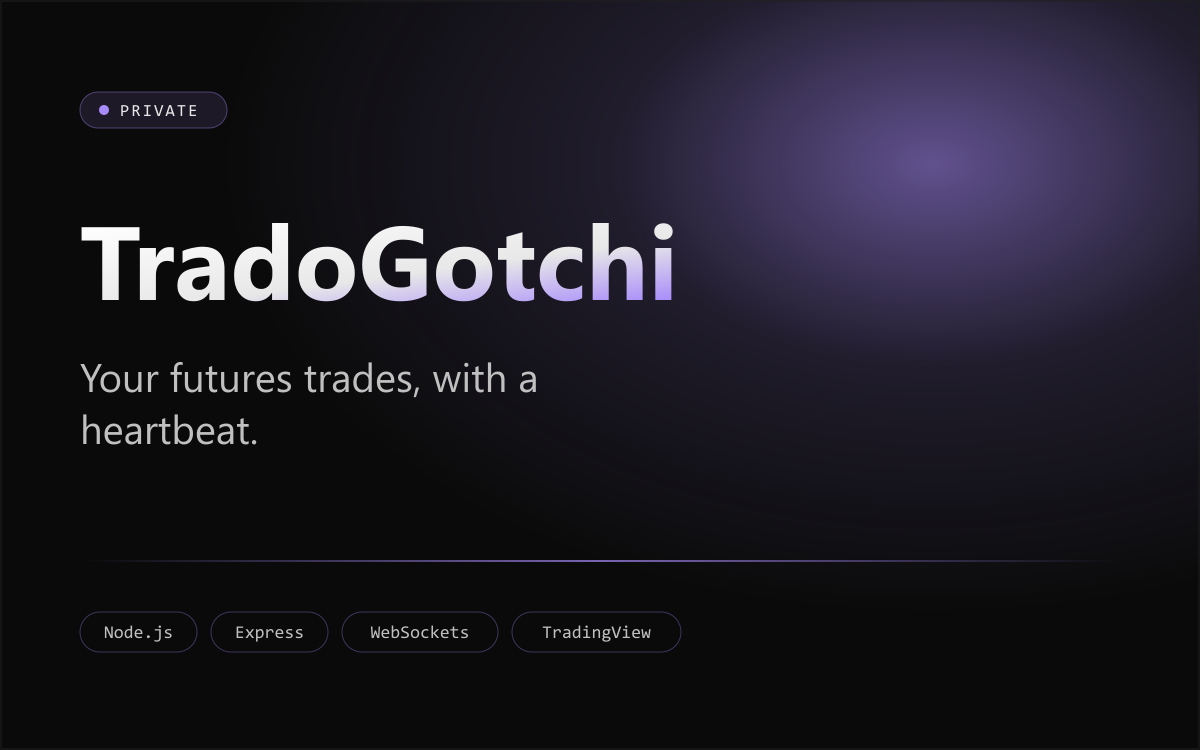
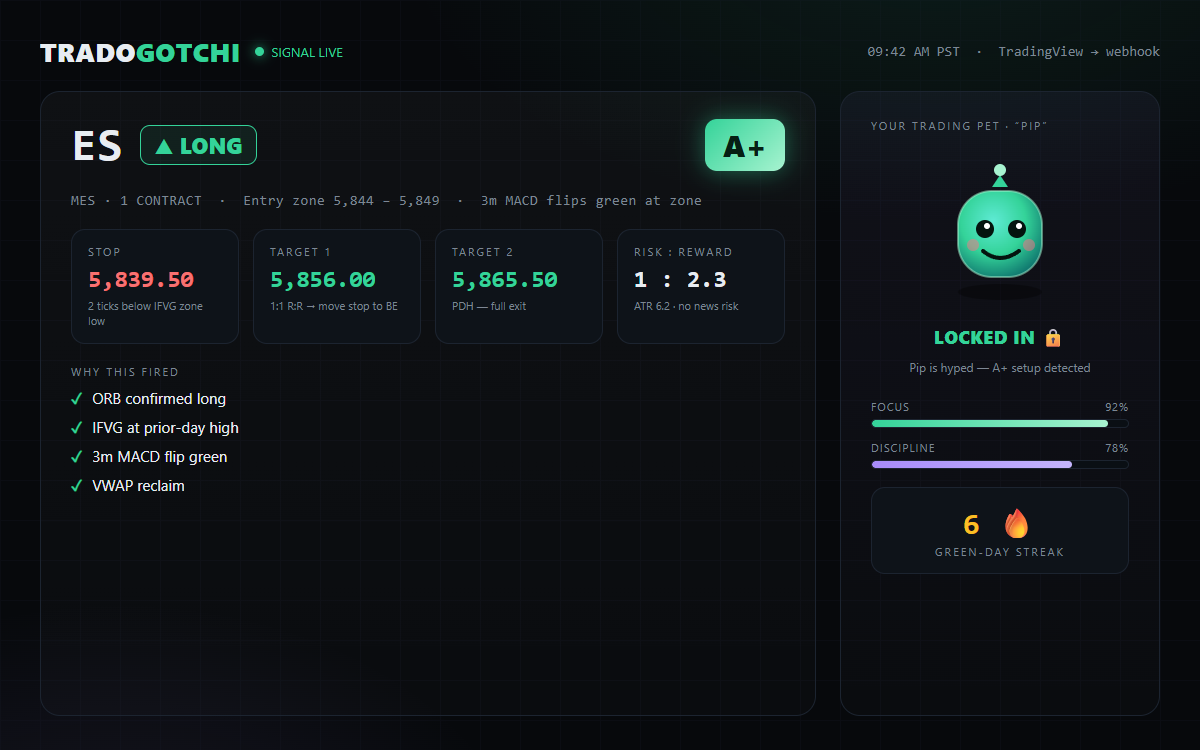
feat: faithful TradoGotchi alert-card visual from server data

diff --git a/scripts/tradogotchi-mock.html b/scripts/tradogotchi-mock.html
@@ -1,0 +1,173 @@
+<!doctype html>
+<html lang="en">
+<head>
+<meta charset="utf-8" />
+<style>
+  * { margin: 0; padding: 0; box-sizing: border-box; }
+  :root {
+    --bg: #07090c; --panel: #0e1319; --line: #1c2430;
+    --green: #34d399; --green-dim: #0f3a2e; --red: #f87171;
+    --purple: #a78bfa; --text: #e8edf2; --dim: #7d8794; --gold: #fbbf24;
+  }
+  html,body { width:1200px; height:750px; background:var(--bg); color:var(--text);
+    font-family: "Segoe UI", Inter, system-ui, sans-serif; overflow:hidden; }
+  .mono { font-family: "Consolas","SF Mono",ui-monospace,monospace; }
+  .app { width:1200px; height:750px; position:relative;
+    background:
+      radial-gradient(900px 500px at 78% -10%, rgba(52,211,153,.10), transparent 60%),
+      radial-gradient(700px 500px at 10% 120%, rgba(167,139,250,.10), transparent 60%),
+      var(--bg);
+    padding:34px 40px; display:flex; flex-direction:column; gap:22px; }
+  /* subtle grid */
+  .app::before { content:""; position:absolute; inset:0;
+    background-image:linear-gradient(var(--line) 1px,transparent 1px),linear-gradient(90deg,var(--line) 1px,transparent 1px);
+    background-size:40px 40px; opacity:.18; pointer-events:none; }
+
+  .top { display:flex; align-items:center; justify-content:space-between; position:relative; z-index:1; }
+  .brand { display:flex; align-items:center; gap:14px; }
+  .logo { font-size:26px; font-weight:800; letter-spacing:.5px; }
+  .logo b { color:var(--green); }
+  .live { display:flex; align-items:center; gap:8px; font-size:13px; color:var(--green); }
+  .dot { width:9px; height:9px; border-radius:50%; background:var(--green); box-shadow:0 0 12px var(--green); }
+  .clock { font-size:14px; color:var(--dim); }
+
+  .body { display:grid; grid-template-columns: 1fr 320px; gap:24px; position:relative; z-index:1; flex:1; }
+
+  .card { background:linear-gradient(180deg,rgba(255,255,255,.03),rgba(255,255,255,.01));
+    border:1px solid var(--line); border-radius:20px; padding:26px 30px; }
+
+  .alert { display:flex; flex-direction:column; gap:20px; }
+  .alert-head { display:flex; align-items:center; gap:16px; }
+  .pair { font-size:46px; font-weight:800; letter-spacing:1px; }
+  .dir { display:inline-flex; align-items:center; gap:8px; font-size:22px; font-weight:800;
+    color:var(--green); padding:4px 14px; border:1px solid var(--green); border-radius:10px;
+    background:rgba(52,211,153,.08); }
+  .grade { margin-left:auto; font-size:30px; font-weight:900; color:#062014;
+    background:linear-gradient(135deg,var(--green),#a7f3d0); padding:6px 18px; border-radius:12px;
+    box-shadow:0 0 24px rgba(52,211,153,.45); }
+  .sub { font-size:14px; color:var(--dim); letter-spacing:.5px; }
+
+  .levels { display:grid; grid-template-columns:repeat(4,1fr); gap:14px; }
+  .lvl { background:var(--panel); border:1px solid var(--line); border-radius:14px; padding:14px 16px; }
+  .lvl .lab { font-size:11px; letter-spacing:2px; color:var(--dim); text-transform:uppercase; }
+  .lvl .val { font-size:24px; font-weight:700; margin-top:6px; }
+  .lvl .note { font-size:11px; color:var(--dim); margin-top:6px; line-height:1.35; }
+  .lvl.stop .val { color:var(--red); }
+  .lvl.t1 .val, .lvl.t2 .val { color:var(--green); }
+
+  .why { display:flex; flex-direction:column; gap:9px; }
+  .why .wlab { font-size:11px; letter-spacing:2px; color:var(--dim); text-transform:uppercase; }
+  .chk { display:flex; align-items:center; gap:10px; font-size:15px; }
+  .chk span { color:var(--green); font-weight:800; }
+  .meta { display:flex; gap:10px; margin-top:4px; }
+  .chip { font-size:12px; color:var(--text); border:1px solid var(--line); border-radius:999px; padding:5px 12px; }
+  .chip b { color:var(--green); }
+
+  /* PET panel */
+  .pet { display:flex; flex-direction:column; gap:18px; align-items:center; justify-content:flex-start;
+    background:linear-gradient(180deg,rgba(167,139,250,.06),rgba(255,255,255,.01)); }
+  .pet .pname { align-self:flex-start; font-size:11px; letter-spacing:2px; color:var(--dim); text-transform:uppercase; }
+  .creature { margin-top:6px; }
+  .mood { font-size:18px; font-weight:800; color:var(--green); letter-spacing:.5px; }
+  .moodsub { font-size:12px; color:var(--dim); margin-top:-8px; }
+  .bars { width:100%; display:flex; flex-direction:column; gap:12px; margin-top:6px; }
+  .bar .bl { display:flex; justify-content:space-between; font-size:11px; color:var(--dim); letter-spacing:1px; margin-bottom:5px; }
+  .track { height:9px; background:#0a0f14; border:1px solid var(--line); border-radius:999px; overflow:hidden; }
+  .fill { height:100%; border-radius:999px; }
+  .streak { width:100%; background:var(--panel); border:1px solid var(--line); border-radius:14px; padding:14px;
+    text-align:center; }
+  .streak .big { font-size:30px; font-weight:800; color:var(--gold); }
+  .streak .sl { font-size:11px; letter-spacing:2px; color:var(--dim); text-transform:uppercase; margin-top:2px; }
+</style>
+</head>
+<body>
+  <div class="app">
+    <div class="top">
+      <div class="brand">
+        <div class="logo">TRADO<b>GOTCHI</b></div>
+        <div class="live"><span class="dot"></span> SIGNAL LIVE</div>
+      </div>
+      <div class="clock mono">09:42 AM PST &nbsp;·&nbsp; TradingView → webhook</div>
+    </div>
+
+    <div class="body">
+      <!-- ALERT -->
+      <div class="card alert">
+        <div class="alert-head">
+          <div class="pair mono">ES</div>
+          <div class="dir">▲ LONG</div>
+          <div class="grade">A+</div>
+        </div>
+        <div class="sub mono">MES · 1 CONTRACT &nbsp;·&nbsp; Entry zone 5,844 – 5,849 &nbsp;·&nbsp; 3m MACD flips green at zone</div>
+
+        <div class="levels">
+          <div class="lvl stop">
+            <div class="lab">Stop</div><div class="val mono">5,839.50</div>
+            <div class="note">2 ticks below IFVG zone low</div>
+          </div>
+          <div class="lvl t1">
+            <div class="lab">Target 1</div><div class="val mono">5,856.00</div>
+            <div class="note">1:1 R:R → move stop to BE</div>
+          </div>
+          <div class="lvl t2">
+            <div class="lab">Target 2</div><div class="val mono">5,865.50</div>
+            <div class="note">PDH — full exit</div>
+          </div>
+          <div class="lvl">
+            <div class="lab">Risk : Reward</div><div class="val mono">1 : 2.3</div>
+            <div class="note">ATR 6.2 · no news risk</div>
+          </div>
+        </div>
+
+        <div class="why">
+          <div class="wlab">Why this fired</div>
+          <div class="chk"><span>✓</span> ORB confirmed long</div>
+          <div class="chk"><span>✓</span> IFVG at prior-day high</div>
+          <div class="chk"><span>✓</span> 3m MACD flip green</div>
+          <div class="chk"><span>✓</span> VWAP reclaim</div>
+        </div>
+      </div>
+
+      <!-- PET -->
+      <div class="card pet">
+        <div class="pname">Your trading pet · “Pip”</div>
+        <svg class="creature" width="150" height="150" viewBox="0 0 150 150">
+          <defs>
+            <radialGradient id="g" cx="42%" cy="35%" r="70%">
+              <stop offset="0%" stop-color="#5eead4"/><stop offset="55%" stop-color="#34d399"/>
+              <stop offset="100%" stop-color="#0f766e"/>
+            </radialGradient>
+          </defs>
+          <ellipse cx="75" cy="135" rx="42" ry="8" fill="#000" opacity=".35"/>
+          <path d="M75 18 L83 30 L67 30 Z" fill="#34d399"/>
+          <circle cx="75" cy="13" r="6" fill="#a7f3d0"/>
+          <rect x="33" y="34" width="84" height="86" rx="34" fill="url(#g)"/>
+          <rect x="33" y="34" width="84" height="86" rx="34" fill="none" stroke="#a7f3d0" stroke-opacity=".5" stroke-width="2"/>
+          <circle cx="60" cy="72" r="9" fill="#04140f"/><circle cx="62" cy="69" r="3" fill="#fff"/>
+          <circle cx="92" cy="72" r="9" fill="#04140f"/><circle cx="94" cy="69" r="3" fill="#fff"/>
+          <path d="M58 94 Q75 108 94 94" fill="none" stroke="#04140f" stroke-width="4" stroke-linecap="round"/>
+          <circle cx="48" cy="88" r="6" fill="#fb7185" opacity=".5"/>
+          <circle cx="104" cy="88" r="6" fill="#fb7185" opacity=".5"/>
+        </svg>
+        <div class="mood">LOCKED IN 🔒</div>
+        <div class="moodsub">Pip is hyped — A+ setup detected</div>
+
+        <div class="bars">
+          <div class="bar">
+            <div class="bl"><span>FOCUS</span><span>92%</span></div>
+            <div class="track"><div class="fill" style="width:92%;background:linear-gradient(90deg,#34d399,#a7f3d0)"></div></div>
+          </div>
+          <div class="bar">
+            <div class="bl"><span>DISCIPLINE</span><span>78%</span></div>
+            <div class="track"><div class="fill" style="width:78%;background:linear-gradient(90deg,#a78bfa,#c4b5fd)"></div></div>
+          </div>
+        </div>
+        <div class="streak">
+          <div class="big mono">6 🔥</div>
+          <div class="sl">green-day streak</div>
+        </div>
+      </div>
+    </div>
+  </div>
+</body>
+</html>